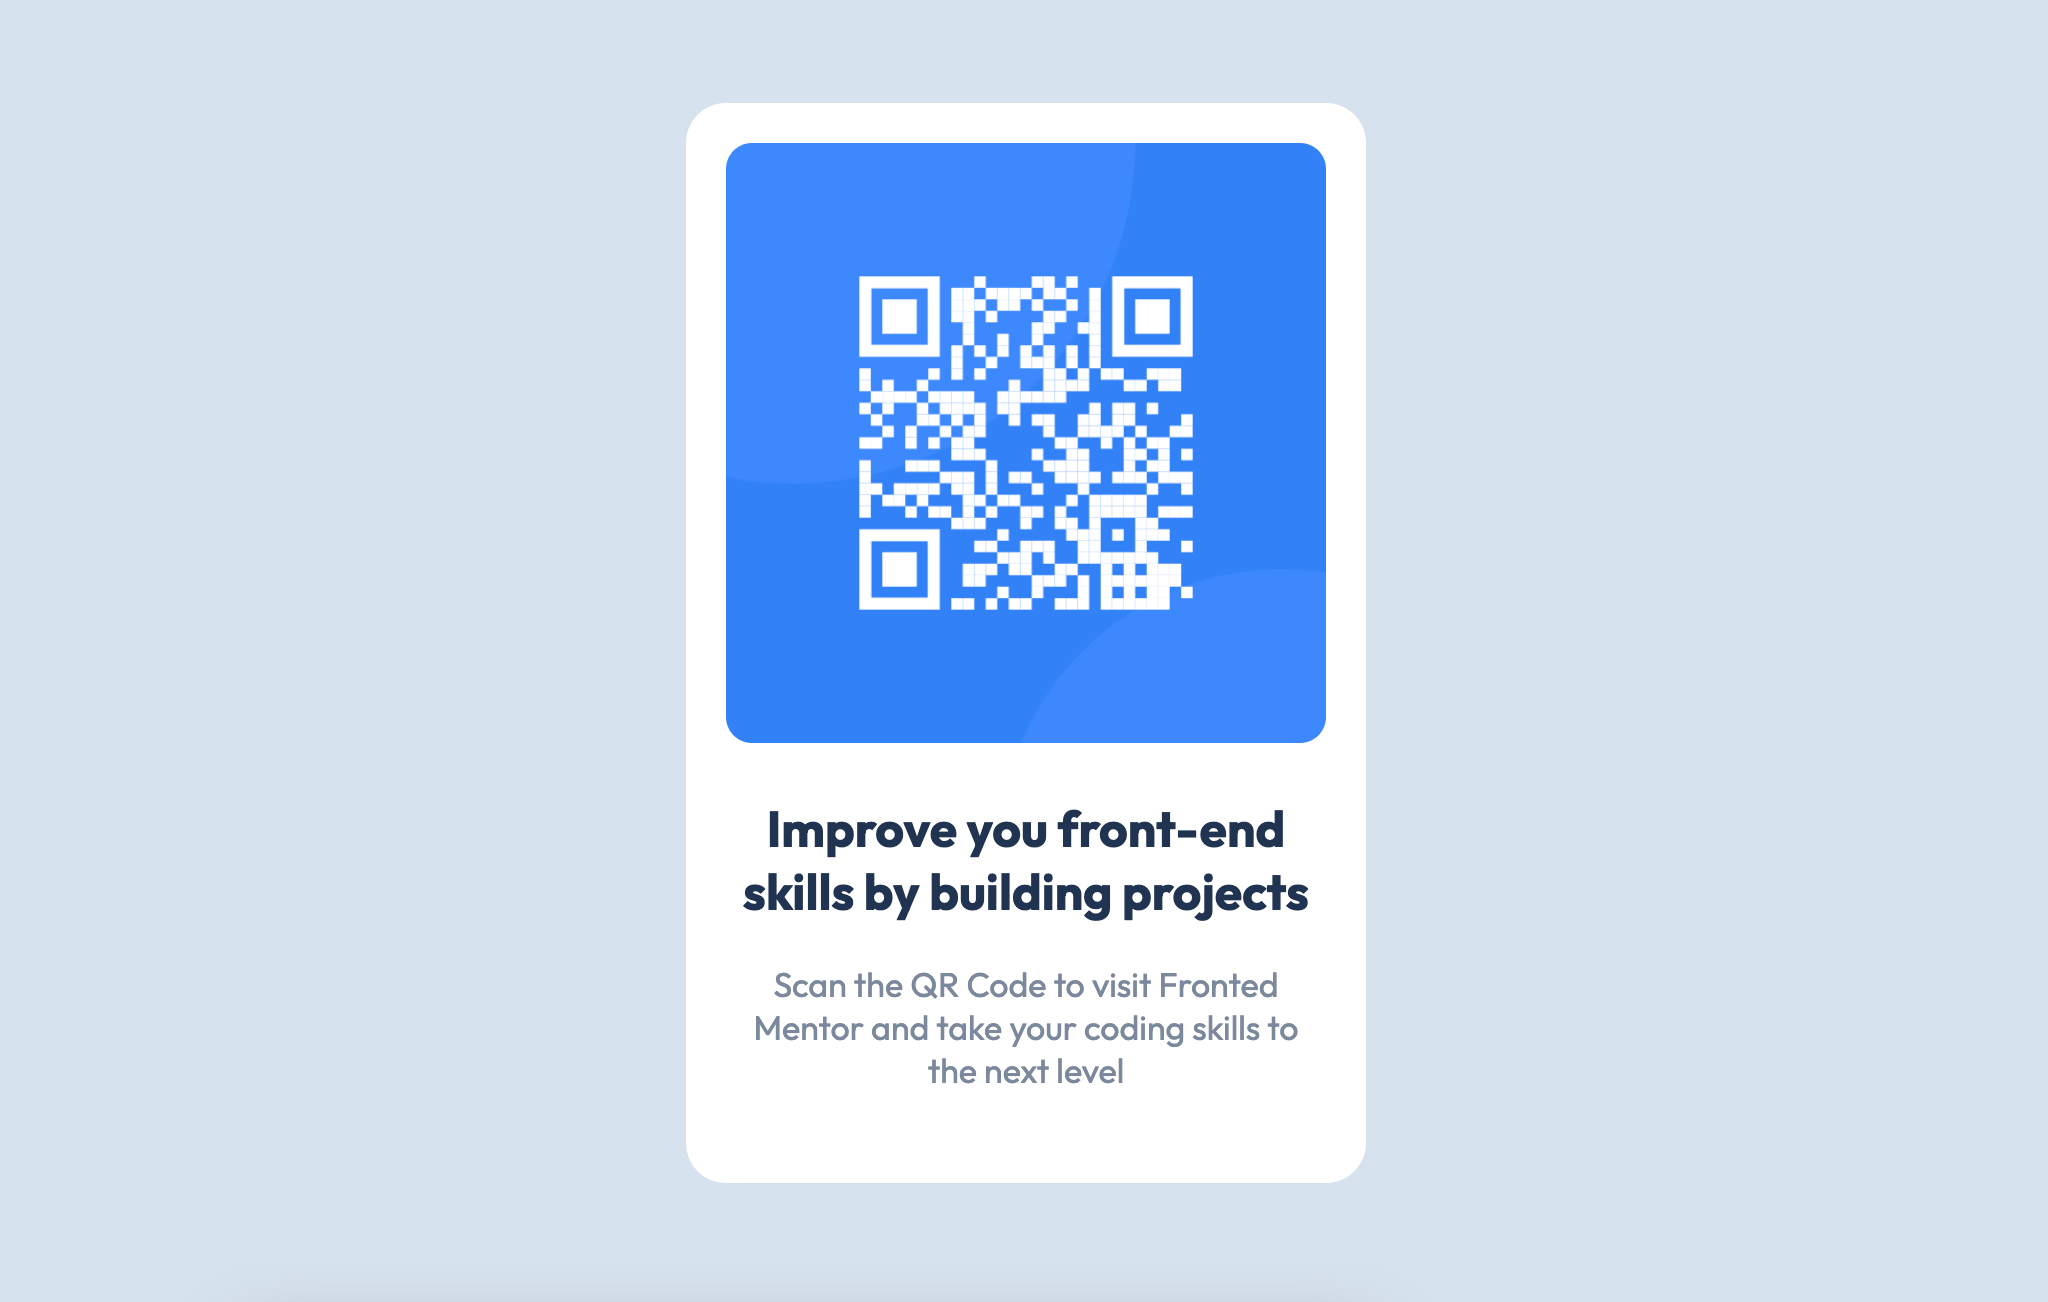
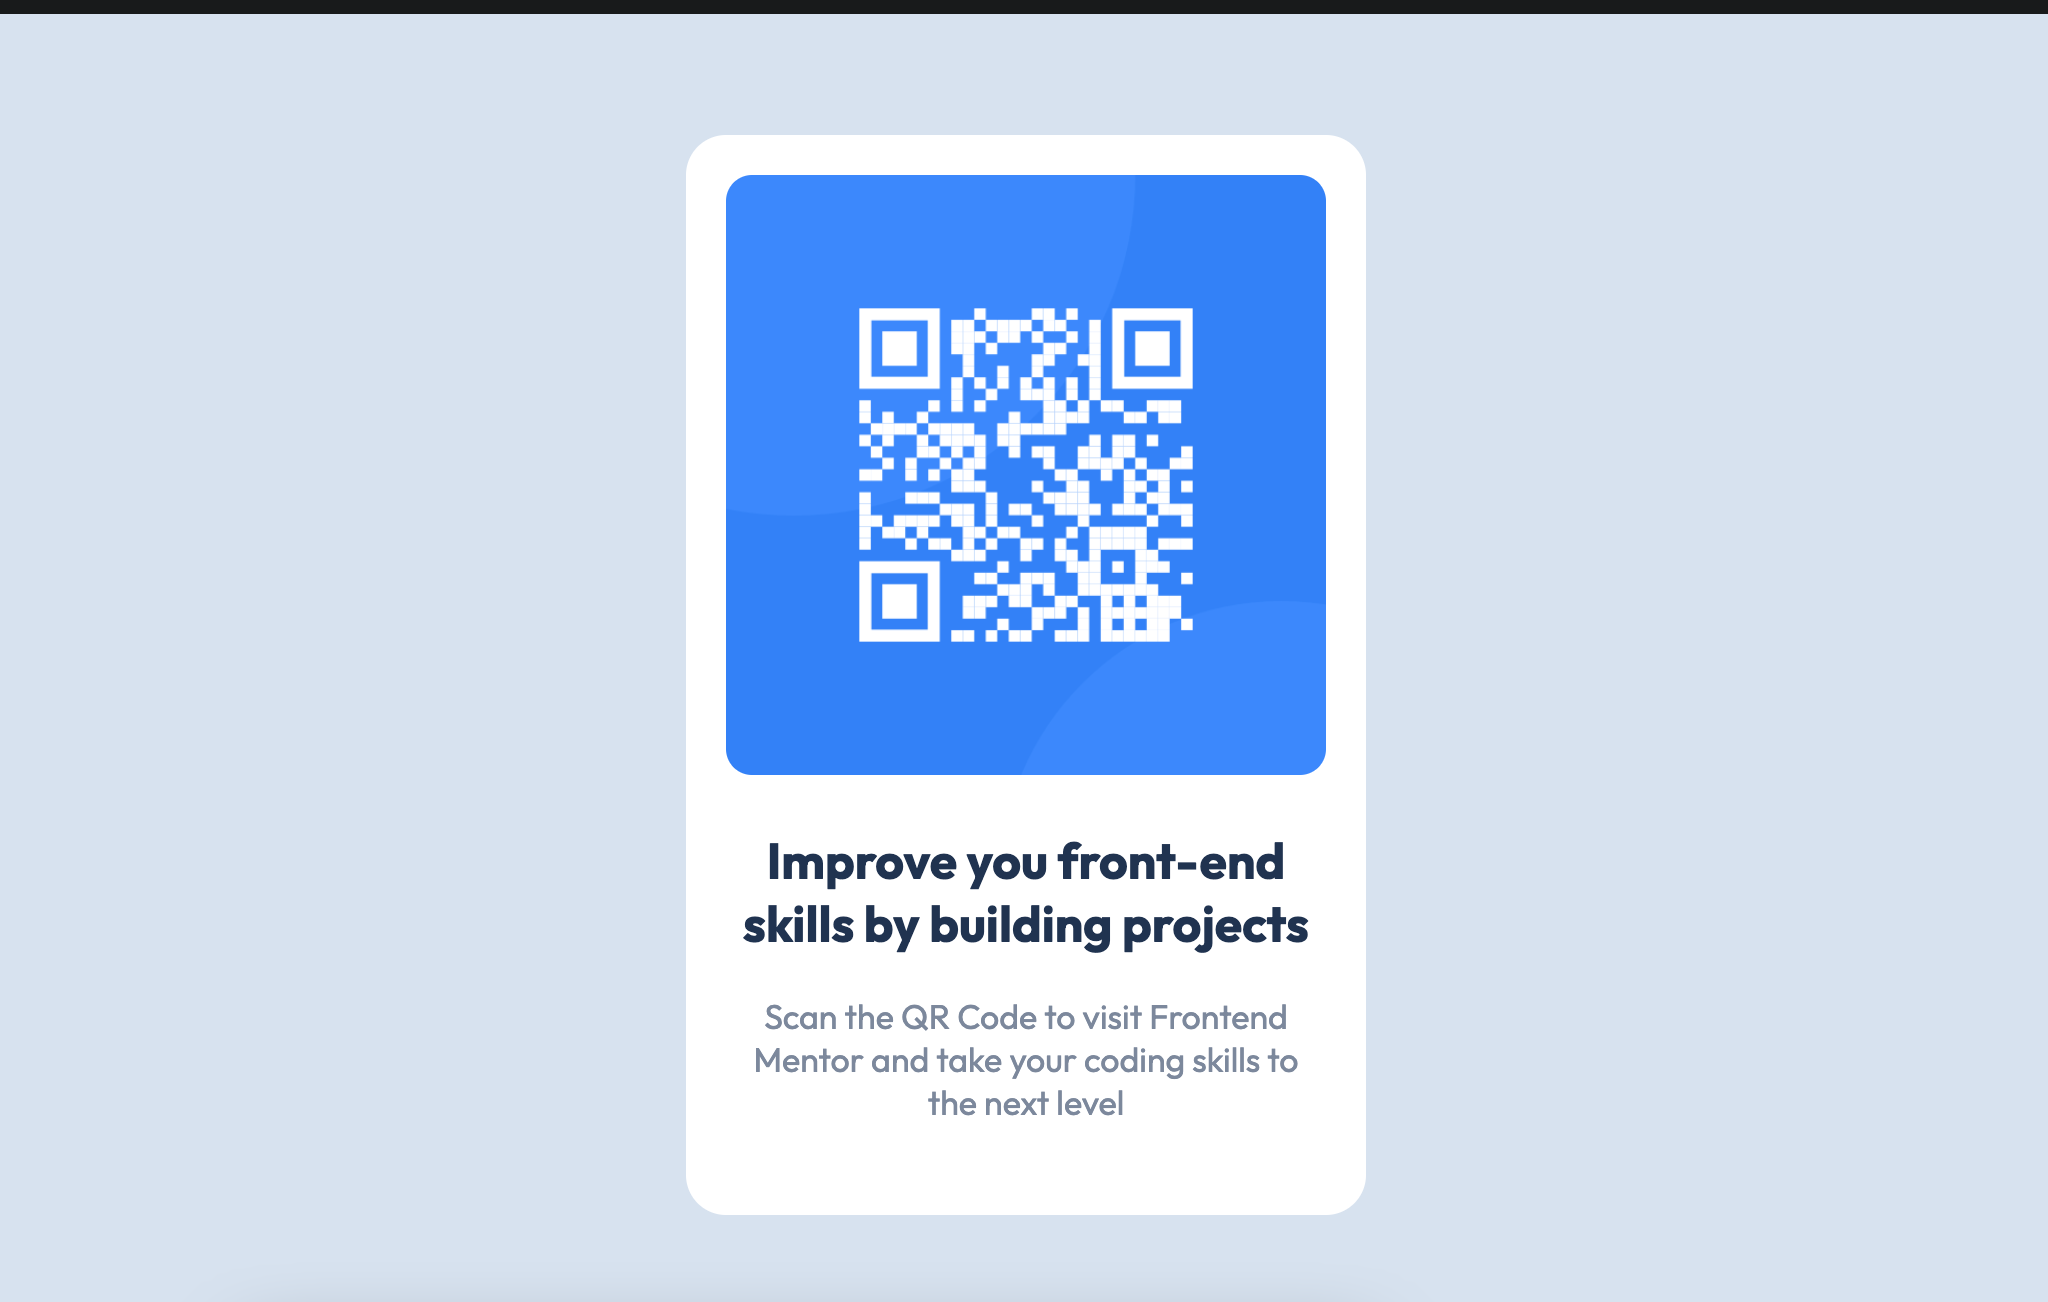
QR-Code

diff --git a/index.html b/index.html
@@ -10,7 +10,7 @@
         <img src="images/qr-code.png" alt="qr-code">
         <div class="card_content">
             <h1>Improve you front-end skills by building projects</h1>
-            <p>Scan the QR Code to visit Fronted Mentor and take your coding skills to the next level</p>
+            <p>Scan the QR Code to visit Frontend Mentor and take your coding skills to the next level</p>
         </div>
     </div>
 </head>
